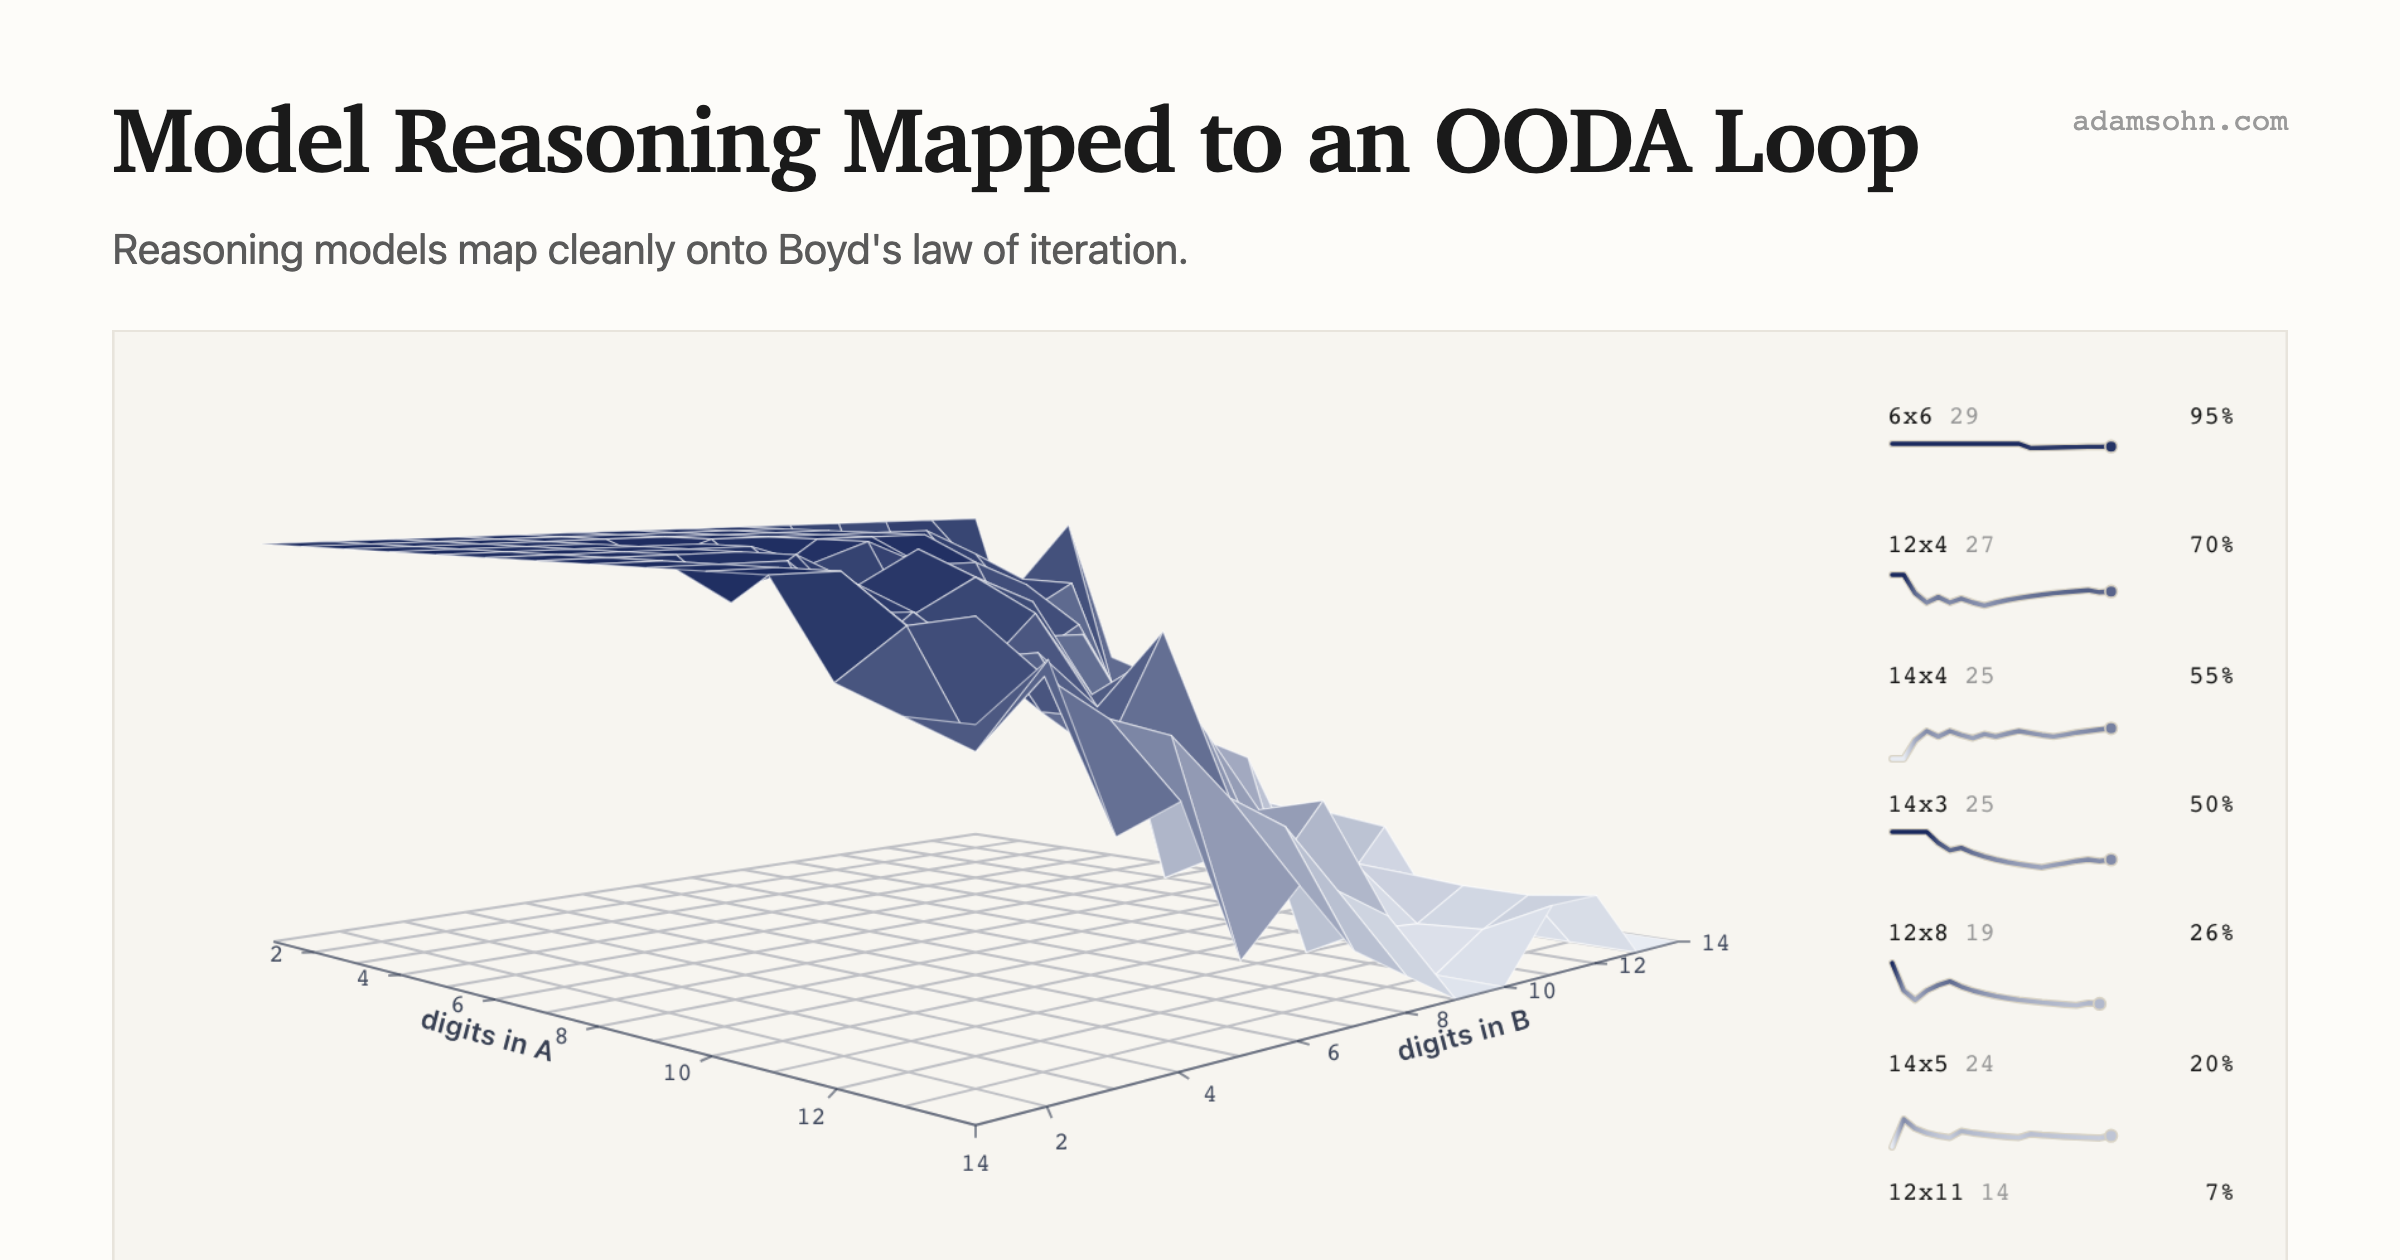
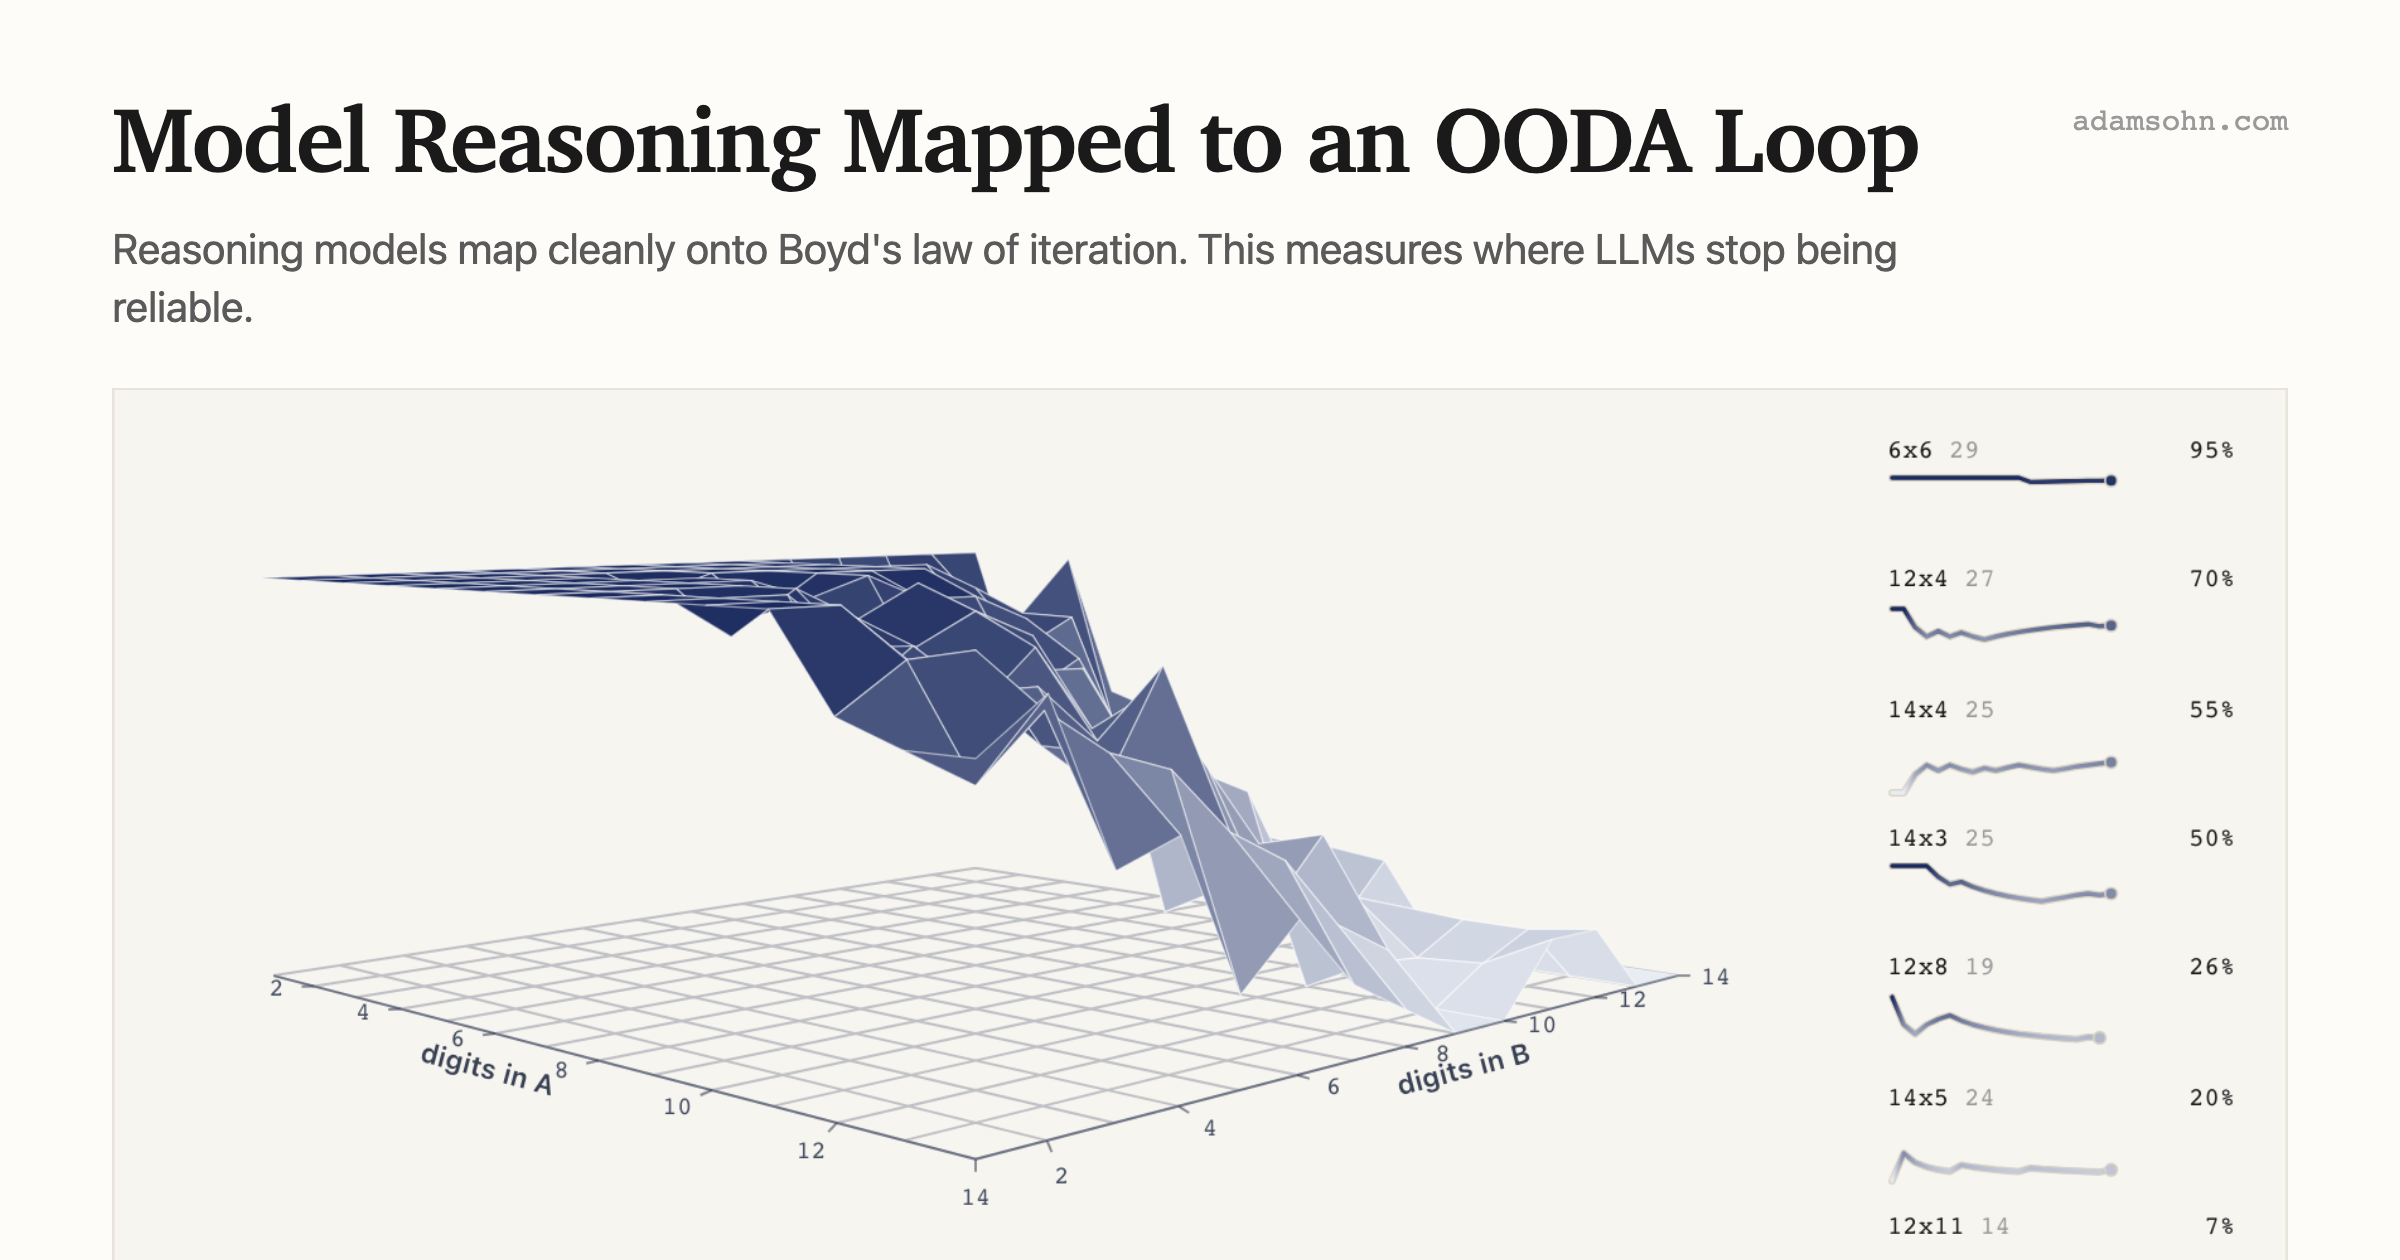
Say what stops being reliable
The claim alone left the reader to work out what was measured. Naming LLMs does
it in six words, and it is the word someone searching would use.

diff --git a/blog/index.html b/blog/index.html
@@ -5,7 +5,7 @@
     <meta name="viewport" content="width=device-width, initial-scale=1" />
     <link rel="icon" href="./favicon.svg" />
     <title>Model Reasoning Mapped to an OODA Loop</title>
-    <meta name="description" content="Reasoning models map cleanly onto Boyd's law of iteration." />
+    <meta name="description" content="Reasoning models map cleanly onto Boyd's law of iteration. This measures where LLMs stop being reliable." />
 
     <!-- ---- THE CARD THAT SHOWS WHEN THIS IS PASTED SOMEWHERE --------------
          Facebook, iMessage, Slack and the rest read these, and every one of
@@ -22,7 +22,7 @@
     <meta property="og:site_name" content="adamsohn.com" />
     <meta property="og:url" content="https://adamsohn.com/reasoning-grid/" />
     <meta property="og:title" content="Model Reasoning Mapped to an OODA Loop" />
-    <meta property="og:description" content="Reasoning models map cleanly onto Boyd's law of iteration." />
+    <meta property="og:description" content="Reasoning models map cleanly onto Boyd's law of iteration. This measures where LLMs stop being reliable." />
     <meta property="og:image" content="https://adamsohn.com/reasoning-grid/og.png" />
     <meta property="og:image:width" content="2400" />
     <meta property="og:image:height" content="1260" />
@@ -30,7 +30,7 @@
 
     <meta name="twitter:card" content="summary_large_image" />
     <meta name="twitter:title" content="Model Reasoning Mapped to an OODA Loop" />
-    <meta name="twitter:description" content="Reasoning models map cleanly onto Boyd's law of iteration." />
+    <meta name="twitter:description" content="Reasoning models map cleanly onto Boyd's law of iteration. This measures where LLMs stop being reliable." />
     <meta name="twitter:image" content="https://adamsohn.com/reasoning-grid/og.png" />
 
     <!-- WITHOUT JAVASCRIPT, GIVE THE SPACE BACK.
